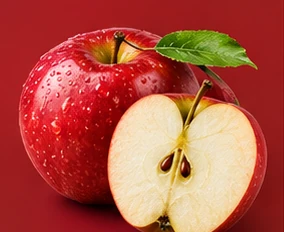
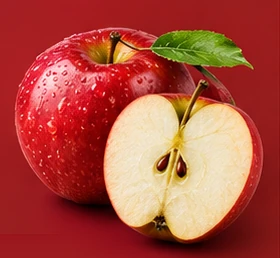
Add files via upload

diff --git a/src/components/ContactSection.vue b/src/components/ContactSection.vue
@@ -4,13 +4,15 @@ import { useLang } from '../useLang.js'
 import { site } from '../content/site.js'
 const { t } = useLang()
 
-const form = reactive({ nombre: '', empresa: '', correo: '', telefono: '', tipo: '', mensaje: '' })
+const form = reactive({ nombre: '', empresa: '', email: '', telefono: '', tipo: '', mensaje: '' })
 const estado = ref('') // '', 'sending', 'ok', 'error'
 
 // Envía a Netlify Forms (las solicitudes llegan al panel de Netlify y a tu correo)
 async function enviar() {
   estado.value = 'sending'
-  const data = new URLSearchParams({ 'form-name': 'cotizacion', ...form })
+  // El campo "email" hace que al presionar Responder en el aviso de Netlify, la respuesta le llegue al cliente
+  const subject = `Cotización web: ${form.empresa || form.nombre} (${form.tipo})`
+  const data = new URLSearchParams({ 'form-name': 'cotizacion', subject, ...form })
   try {
     const res = await fetch('/', {
       method: 'POST',
@@ -54,7 +56,7 @@ async function enviar() {
           <label for="f-empresa">{{ t.contact.form.company }}<input id="f-empresa" v-model="form.empresa" required /></label>
         </div>
         <div class="row2">
-          <label for="f-correo">{{ t.contact.form.email }}<input id="f-correo" v-model="form.correo" type="email" required /></label>
+          <label for="f-correo">{{ t.contact.form.email }}<input id="f-correo" v-model="form.email" type="email" required /></label>
           <label for="f-telefono">{{ t.contact.form.phone }}<input id="f-telefono" v-model="form.telefono" type="tel" /></label>
         </div>
         <label for="f-tipo">{{ t.contact.form.type }}

diff --git a/index.html b/index.html
@@ -30,7 +30,8 @@
       <input name="bot-field" />
       <input name="nombre" />
       <input name="empresa" />
-      <input name="correo" type="email" />
+      <input name="email" type="email" />
+      <input name="subject" />
       <input name="telefono" />
       <input name="tipo" />
       <textarea name="mensaje"></textarea>
